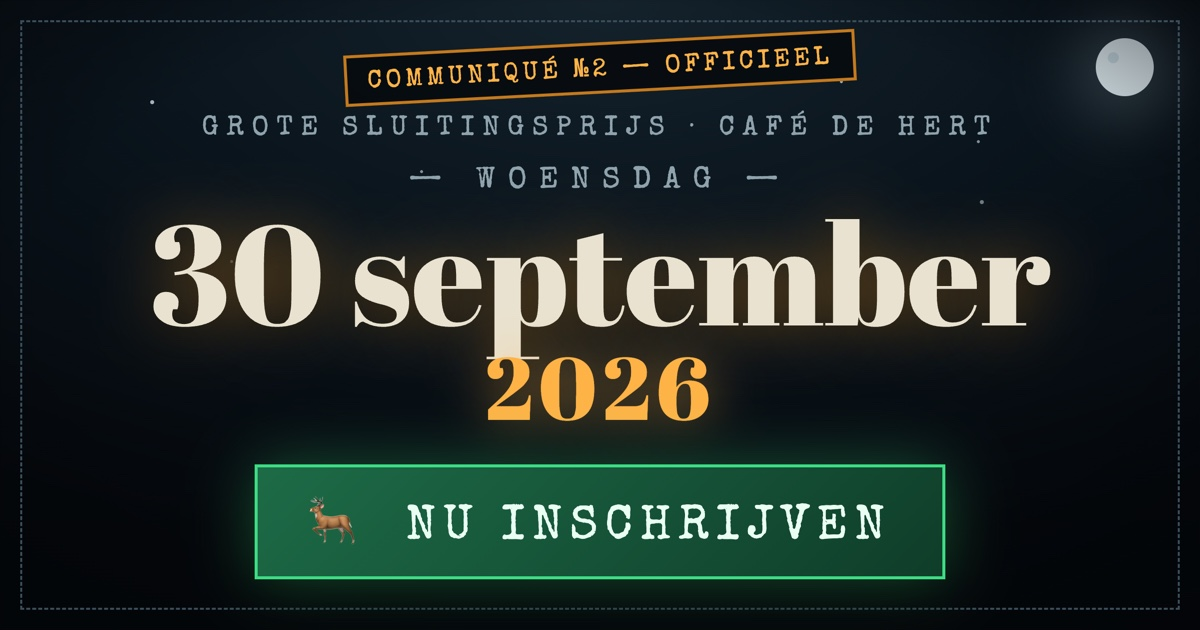
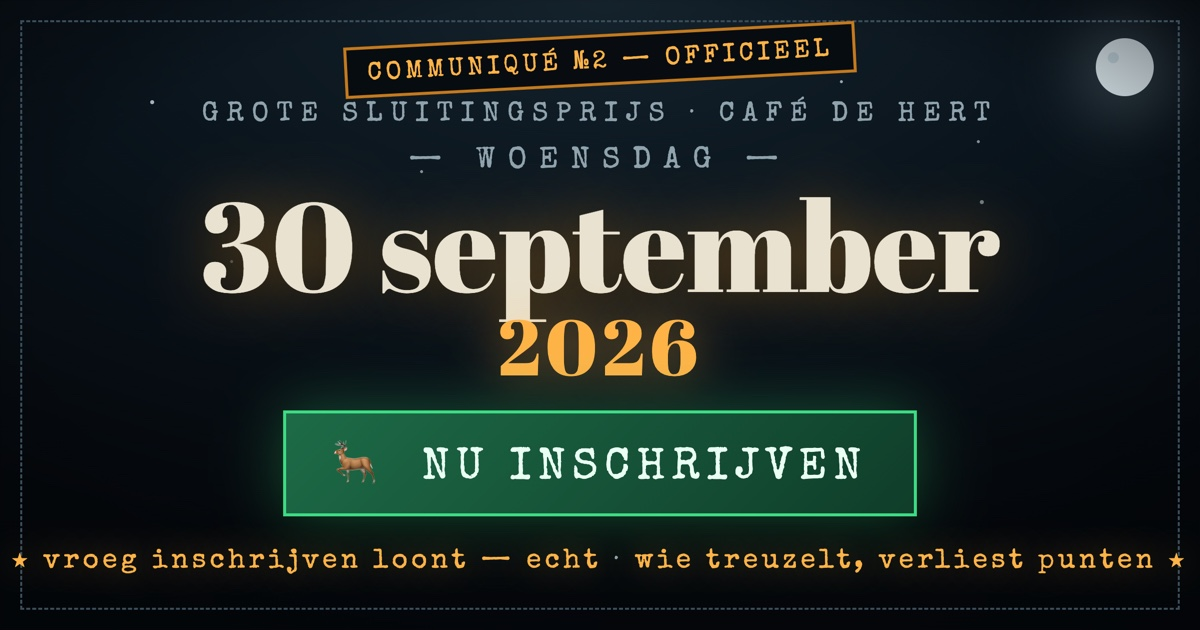
✨ Regel №50 De Vroege Vogels: vroeg inschrijven loont (+5 eerste vijf, +3 week 1, +1 zomer, −2 september, −5 laatste 5 dagen) — op figuur, pagina en scorebord

Changed region(s): [[0.0, 0.3016, 0.9867, 0.9349], [0.1542, 0.0302, 0.8325, 0.3016], [0.3392, 0.2413, 0.37, 0.3016]]

diff --git a/inschrijven.html b/inschrijven.html
@@ -268,6 +268,10 @@ footer .gewei{font-size:1.6rem;display:block;margin-bottom:.8rem;filter:grayscal
 
   <p class="intro">
     Wie meent erbij te horen, schrijft zich in. Hieronder. Nu.
+    En "nu" is letterlijk: <b style="color:var(--amber);font-weight:400">vroeg inschrijven
+    wordt beloond</b> — de eerste vijf rijkelijk — en getreuzel wordt bestraft,
+    oplopend tot zwaar (regel №50, De Vroege Vogels; zie
+    <a href="scorebord.html" style="color:var(--amber)">het voorlopig klassement</a>).
     De jury stelt nadien de ploegen samen — eerlijk, evenwichtig
     en volstrekt ondoorgrondelijk.
   </p>

diff --git a/uitslag.html b/uitslag.html
@@ -233,7 +233,7 @@ async function openDossier(bewaardeCode) {
         `<span style="color:var(--paars)">${dames.length} baroudelle(n)</span> · ` +
         `${inschrijvingen.filter(aangepast).length} door de jury bijgesteld<br>` +
         `<span class="meta">sterren = geldend niveau, klik om bij te stellen (kan altijd; ongemoeid = automatisch geverifieerd; <span style="color:var(--rood)">rood</span> = door de jury aangepast)</span><br>` +
-        `<span class="meta">punten lopen automatisch volgens het reglement (№10 schoonheid, №20 verstoppers, №30 burgerplicht, №40 zelfkennis) — publiek zichtbaar op <a href="scorebord.html" style="color:var(--amber)">het scorebord</a>, zonder redenen</span></div>` +
+        `<span class="meta">punten lopen automatisch volgens het reglement (№10 schoonheid, №20 verstoppers, №30 burgerplicht, №40 zelfkennis, №50 vroege vogels) — publiek zichtbaar op <a href="scorebord.html" style="color:var(--amber)">het scorebord</a>, zonder redenen</span></div>` +
         inschrijvingen.map(i => {
           const sc = scorePer[i.id] || {};
           const eff = i.jury_niveau != null ? i.jury_niveau : i.niveau;
@@ -246,6 +246,7 @@ async function openDossier(bewaardeCode) {
           if (sc.verstopper) opsom.push(`${sc.verstopper} verstopper`);
           if (sc.schoonheid) opsom.push(`+${sc.schoonheid} schoonheid`);
           if (sc.zelfkennis != null) opsom.push(`${sc.zelfkennis > 0 ? '+' : ''}${sc.zelfkennis} zelfkennis`);
+          if (sc.vroegte != null) opsom.push(`${sc.vroegte > 0 ? '+' : ''}${sc.vroegte} vroegte`);
           (sc.correcties || []).forEach(c => opsom.push(
             `<span style="color:var(--amber)">${c.punten > 0 ? '+' : ''}${c.punten}${c.reden ? ' „' + esc(c.reden) + '"' : ''}</span> ` +
             `<span onclick="verwijderCorrectie('${c.id}')" style="cursor:pointer" title="verwijder correctie">🗑</span>`));